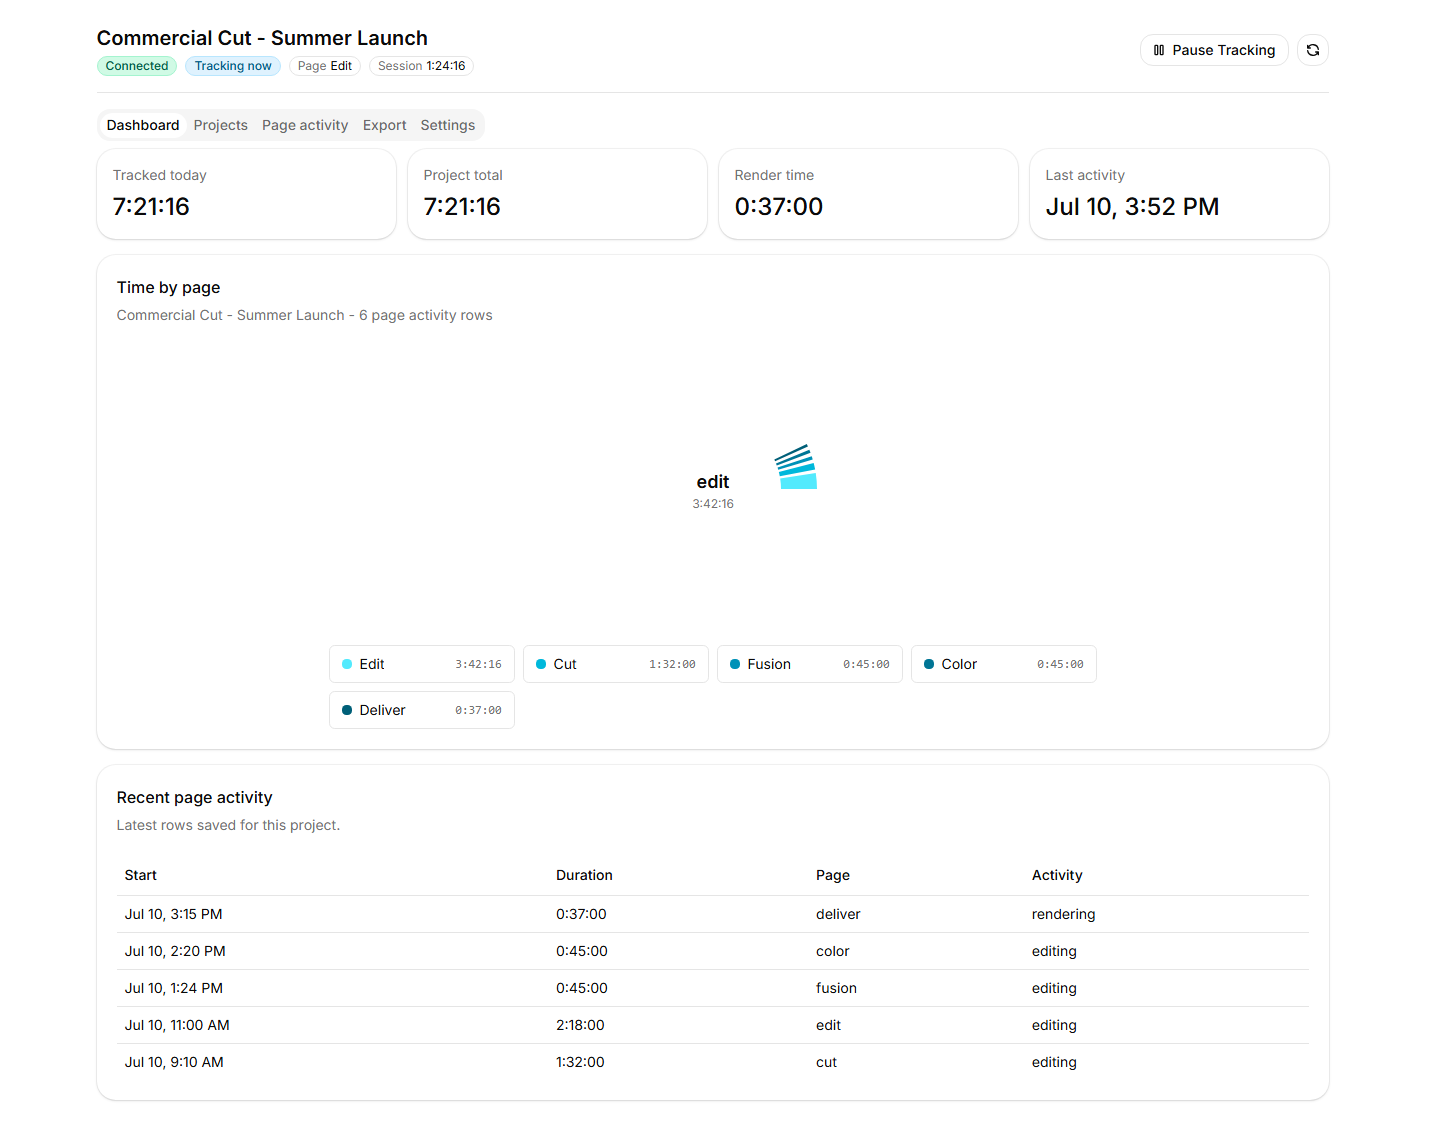
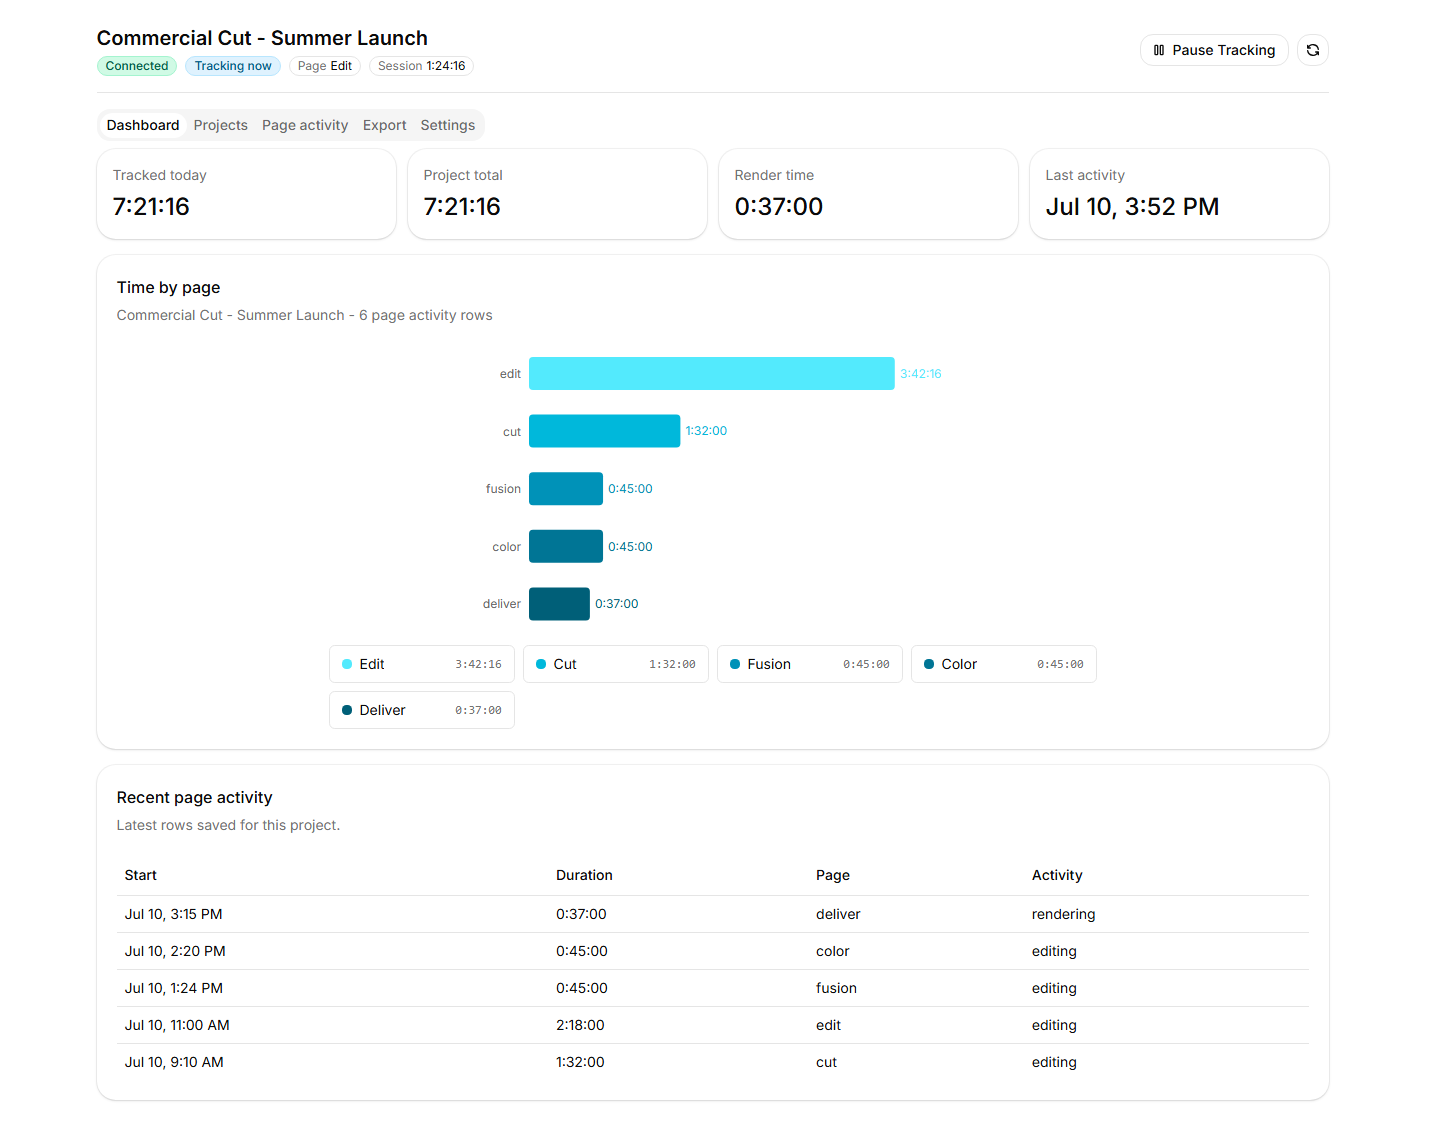
fix: render dashboard page chart correctly

Changed region(s): [[0.3438, 0.3114, 0.625, 0.5605], [0.5312, 0.4048, 0.5625, 0.4359]]

diff --git a/frontend/src/App.tsx b/frontend/src/App.tsx
@@ -4,9 +4,6 @@ import {
   BarChart,
   Cell,
   LabelList,
-  Pie,
-  PieChart,
-  Label as RechartsLabel,
   XAxis,
   YAxis,
 } from "recharts"
@@ -383,12 +380,24 @@ function App() {
                         className="mx-auto h-72 max-w-3xl"
                         initialDimension={{ width: 800, height: 256 }}
                       >
-                        <PieChart accessibilityLayer>
+                        <BarChart
+                          accessibilityLayer
+                          data={pageDonutData}
+                          layout="vertical"
+                          barCategoryGap={12}
+                          margin={{ left: 0, right: 56 }}
+                        >
+                          <XAxis dataKey="seconds" hide type="number" />
+                          <YAxis
+                            dataKey="page"
+                            axisLine={false}
+                            tickLine={false}
+                            type="category"
+                            width={72}
+                          />
                           <ChartTooltip
                             content={
                               <ChartTooltipContent
-                                hideLabel
-                                hideIndicator
                                 formatter={(value, _name, item) => (
                                   <div className="flex min-w-32 items-center gap-2">
                                     <span
@@ -408,45 +417,17 @@ function App() {
                               />
                             }
                           />
-                          <Pie
-                            data={pageDonutData}
-                            dataKey="seconds"
-                            nameKey="page"
-                            innerRadius={68}
-                            outerRadius={104}
-                            paddingAngle={2}
-                          >
-                            <RechartsLabel
-                              content={({ viewBox }) => {
-                                if (!viewBox || !("cx" in viewBox)) return null
-                                const topPage = pageDonutData[0]
-                                return (
-                                  <text
-                                    x={viewBox.cx}
-                                    y={viewBox.cy}
-                                    textAnchor="middle"
-                                    dominantBaseline="middle"
-                                  >
-                                    <tspan
-                                      x={viewBox.cx}
-                                      y={Number(viewBox.cy) - 6}
-                                      className="fill-foreground text-lg font-semibold"
-                                    >
-                                      {topPage.page}
-                                    </tspan>
-                                    <tspan
-                                      x={viewBox.cx}
-                                      y={Number(viewBox.cy) + 16}
-                                      className="fill-muted-foreground"
-                                    >
-                                      {duration(topPage.seconds)}
-                                    </tspan>
-                                  </text>
-                                )
-                              }}
+                          <Bar dataKey="seconds" radius={4}>
+                            {pageDonutData.map((item) => (
+                              <Cell key={item.page} fill={item.fill} />
+                            ))}
+                            <LabelList
+                              dataKey="seconds"
+                              formatter={(value) => duration(Number(value))}
+                              position="right"
                             />
-                          </Pie>
-                        </PieChart>
+                          </Bar>
+                        </BarChart>
                       </ChartContainer>
                     )}
                     {pageDonutData.length > 0 && (